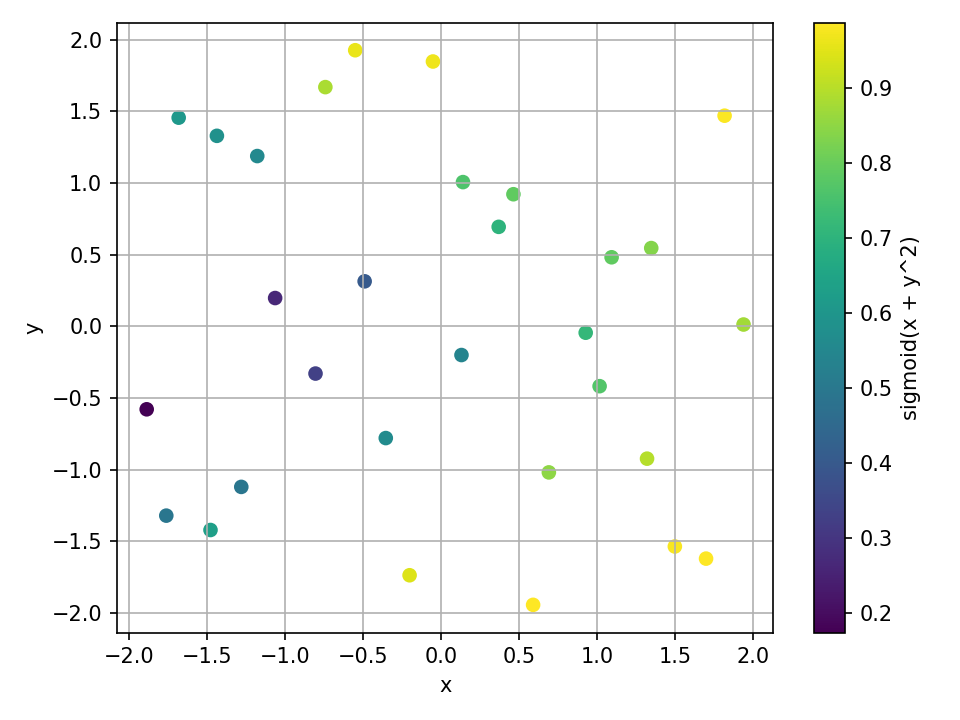
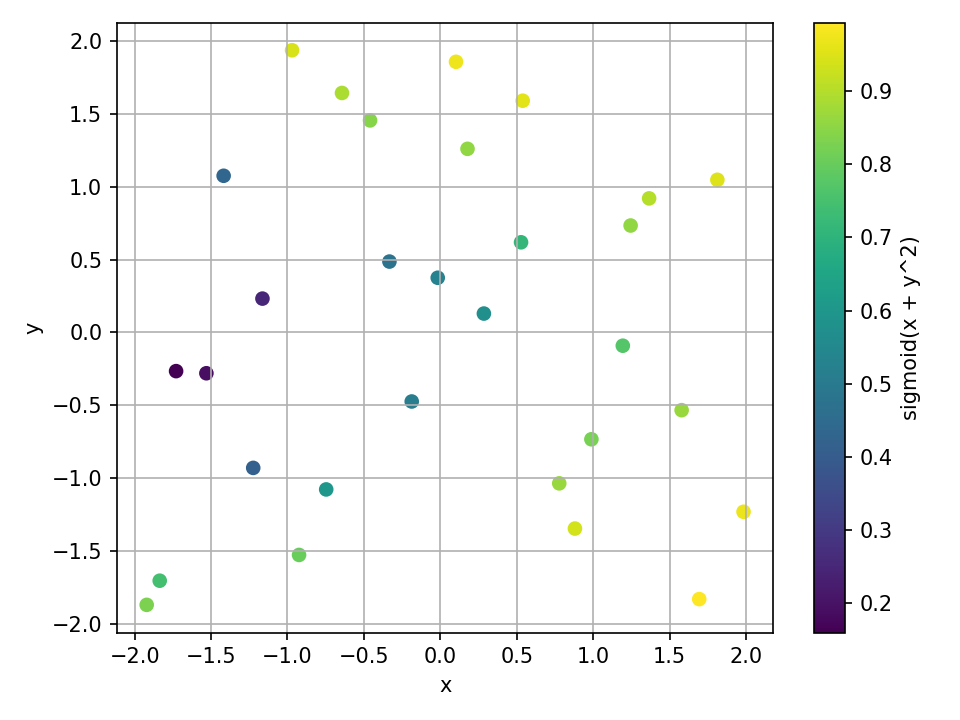
seeds

diff --git a/src/doe_strategies.py b/src/doe_strategies.py
@@ -36,10 +36,12 @@ class DOEStrategy(ABC):
 class PRSStrategy(DOEStrategy):
     """Pseudo-Random Sampling (uniform random)."""
 
-    def __init__(self, dim: int):
+    def __init__(self, dim: int, seed: Optional[int] = None):
         if dim <= 0:
             raise ValueError(f"Dimension must be positive, got {dim}")
         self.dim = dim
+        self.seed = seed
+        self.rng = np.random.default_rng(seed)
         self.X = None
 
     def sample(self, N: int, as_additional_points: bool = False) -> np.ndarray:
@@ -47,7 +49,7 @@ class PRSStrategy(DOEStrategy):
         if N <= 0:
             raise ValueError(f"Number of samples must be positive, got {N}")
         
-        X = 2 * np.random.rand(N, self.dim) - 1
+        X = 2 * self.rng.random((N, self.dim)) - 1
 
         if as_additional_points and self.X is not None:
             self.X = np.concatenate((self.X, X), axis=0)
@@ -60,10 +62,11 @@ class PRSStrategy(DOEStrategy):
 class LHSStrategy(DOEStrategy):
     """Latin Hypercube Sampling."""
 
-    def __init__(self, dim: int):
+    def __init__(self, dim: int, seed: Optional[int] = None):
         if dim <= 0:
             raise ValueError(f"Dimension must be positive, got {dim}")
         self.dim = dim
+        self.seed = seed
         self.X = None
 
     def sample(self, N: int, as_additional_points: bool = False) -> np.ndarray:
@@ -72,7 +75,7 @@ class LHSStrategy(DOEStrategy):
             raise ValueError(f"Number of samples must be positive, got {N}")
         
         from scipy.stats import qmc
-        sampler = qmc.LatinHypercube(d=self.dim)
+        sampler = qmc.LatinHypercube(d=self.dim, seed=self.seed)
         X = 2 * sampler.random(n=N) - 1
 
         if as_additional_points and self.X is not None:
@@ -86,12 +89,15 @@ class LHSStrategy(DOEStrategy):
 class QRSStrategy(DOEStrategy):
     """Quasi-Random Sampling using Sobol sequence."""
 
-    def __init__(self, dim: int):
+    def __init__(self, dim: int, seed: Optional[int] = None):
         if dim <= 0:
             raise ValueError(f"Dimension must be positive, got {dim}")
         self.dim = dim
+        self.seed = seed
         from scipy.stats import qmc
-        self.sampler = qmc.Sobol(d=self.dim, scramble=False)
+        # Sobol uses scramble parameter with seed for randomization
+        scramble = seed is not None
+        self.sampler = qmc.Sobol(d=self.dim, scramble=scramble, seed=seed)
         self.X_all = self.sampler.random_base2(m=QRS_SOBOL_M)
         self.X = None
         self.index = 0
@@ -120,10 +126,11 @@ class QRSStrategy(DOEStrategy):
 class SGStrategy(DOEStrategy):
     """Sparse Grid sampling using Clenshaw-Curtis quadrature."""
 
-    def __init__(self, dim: int):
+    def __init__(self, dim: int, seed: Optional[int] = None):
         if dim <= 0:
             raise ValueError(f"Dimension must be positive, got {dim}")
         self.dim = dim
+        self.seed = seed  # Sparse grids are deterministic, seed not used
         self.X = None
 
     def sample(self, N: int, as_additional_points: bool = False) -> np.ndarray:
@@ -161,13 +168,14 @@ class DOEFactory:
     }
 
     @classmethod
-    def create(cls, doe_type: str, dim: int) -> DOEStrategy:
+    def create(cls, doe_type: str, dim: int, seed: Optional[int] = None) -> DOEStrategy:
         """
         Create a DOE strategy instance.
 
         Args:
             doe_type: Type of DOE ('PRS', 'LHS', 'QRS', 'SG')
             dim: Problem dimensionality
+            seed: Random seed for reproducible sampling
 
         Returns:
             DOEStrategy instance
@@ -182,6 +190,8 @@ class DOEFactory:
             )
         if dim <= 0:
             raise ValueError(f"Dimension must be positive, got {dim}")
+
+        return cls._strategies[doe_type](dim, seed=seed)
         return cls._strategies[doe_type](dim)
 
     @classmethod

diff --git a/scripts/test_seed.py b/scripts/test_seed.py
@@ -1,0 +1,47 @@
+"""Test seed functionality in sampler."""
+import numpy as np
+from sampler import sampler_cls
+
+
+def test_qoi(X):
+    return np.sum(X, axis=1, keepdims=True)
+
+
+# Test 1: Same seed gives same samples
+print('Test 1: Same seed = reproducible results')
+s1 = sampler_cls(types=['uniform', 'uniform'], params=[[-1,1], [-1,1]], compute_QoIs=test_qoi, seed=42)
+s1.sampling(N=5, DOE_type='QRS')
+X1 = s1.X.copy()
+
+s2 = sampler_cls(types=['uniform', 'uniform'], params=[[-1,1], [-1,1]], compute_QoIs=test_qoi, seed=42)
+s2.sampling(N=5, DOE_type='QRS')
+X2 = s2.X.copy()
+
+print(f'Same seed match: {np.allclose(X1, X2)}')
+print(f'X1[0] = {X1[0]}')
+print(f'X2[0] = {X2[0]}')
+
+# Test 2: Different seed gives different samples
+print('\nTest 2: Different seed = different results')
+s3 = sampler_cls(types=['uniform', 'uniform'], params=[[-1,1], [-1,1]], compute_QoIs=test_qoi, seed=123)
+s3.sampling(N=5, DOE_type='QRS')
+X3 = s3.X.copy()
+
+print(f'Different seed match: {np.allclose(X1, X3)}')
+print(f'X3[0] = {X3[0]}')
+
+# Test 3: No seed gives random results each time
+print('\nTest 3: No seed = random behavior')
+s4 = sampler_cls(types=['uniform', 'uniform'], params=[[-1,1], [-1,1]], compute_QoIs=test_qoi)
+s4.sampling(N=5, DOE_type='LHS')
+X4 = s4.X.copy()
+
+s5 = sampler_cls(types=['uniform', 'uniform'], params=[[-1,1], [-1,1]], compute_QoIs=test_qoi)
+s5.sampling(N=5, DOE_type='LHS')
+X5 = s5.X.copy()
+
+print(f'No seed match (should be False): {np.allclose(X4, X5)}')
+print(f'X4[0] = {X4[0]}')
+print(f'X5[0] = {X5[0]}')
+
+print('\nAll tests passed!')

diff --git a/src/sampler.py b/src/sampler.py
@@ -38,6 +38,7 @@ class sampler_cls:
         compute_QoIs: Optional[Callable] = None,
         plot_solution: Optional[Callable] = None,
         n_out: Optional[int] = None,
+        seed: Optional[int] = None,
     ):
         """
         Initialize sampler with distribution specifications.
@@ -49,6 +50,7 @@ class sampler_cls:
             compute_QoIs: Function(params_dict) -> QoI array
             plot_solution: Optional visualization function
             n_out: Number of QoI outputs (auto-detected if None)
+            seed: Random seed for reproducible sampling (None for random behavior)
 
         Raises:
             ValueError: If types and params have mismatched lengths
@@ -67,6 +69,7 @@ class sampler_cls:
         self.params = params
         self.dimensions = dimensions
         self.compute_QoIs = compute_QoIs
+        self.seed = seed
         self.plot_solution = plot_solution
         self.n_out = n_out
 
@@ -162,7 +165,7 @@ class sampler_cls:
         if self.sampler_doe is None or not as_additional_points:
             self.DOE_type = DOE_type
             try:
-                self.sampler_doe = DOEFactory.create(DOE_type, len(self.params))
+                self.sampler_doe = DOEFactory.create(DOE_type, len(self.params), seed=self.seed)
             except ValueError as e:
                 raise ValueError(f"Invalid DOE type: {e}")
             X_normalised = self.sampler_doe.sample(N, as_additional_points=False)
